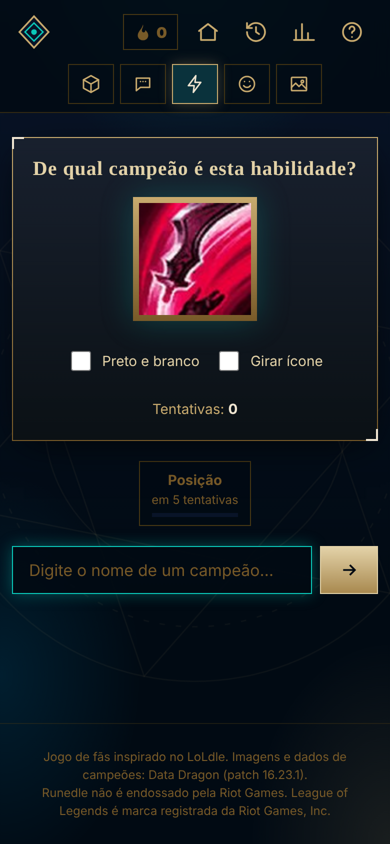
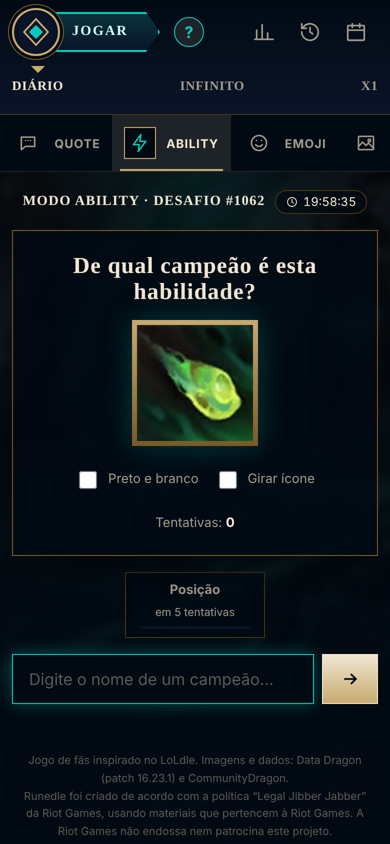
docs: README, changelog e capturas da v1.2.0
Claude-Session: https://claude.ai/code/session_017CqY1AusgkqLbdYCRY5f3o

diff --git a/README.md b/README.md
@@ -5,13 +5,13 @@
 **Descubra o campeão de League of Legends do dia.**
 Um jogo diário de adivinhação inspirado no LoLdle, feito com HTML, CSS e JavaScript puro.
 
-![Versão](https://img.shields.io/badge/vers%C3%A3o-1.1.0-c8aa6e)
+![Versão](https://img.shields.io/badge/vers%C3%A3o-1.2.0-c8aa6e)
 ![HTML5](https://img.shields.io/badge/HTML5-E34F26?logo=html5&logoColor=white)
 ![CSS3](https://img.shields.io/badge/CSS3-1572B6?logo=css3&logoColor=white)
 ![JavaScript](https://img.shields.io/badge/JavaScript-F7DF1E?logo=javascript&logoColor=black)
 ![Licença](https://img.shields.io/badge/licen%C3%A7a-MIT-0ac8b9)
 
-<img src="docs/screenshots/classic.jpg" alt="Modo Classic" width="720">
+<img src="docs/screenshots/classic.jpg" alt="Modo Classic" width="760">
 
 </div>
 
@@ -35,6 +35,7 @@ O projeto não tem dependências nem etapa de build: basta abrir o `index.html`.
 
 ## Funcionalidades
 
+- ⚔ **X1 ao vivo**: salas com código para dois jogadores, o mesmo campeão ao mesmo tempo, progresso do adversário em tempo real e palpites conferidos no servidor (Supabase).
 - ♾ **Modo infinito**: rodadas aleatórias sem limite, em um modo escolhido ou sorteado, com sequência e recorde próprios.
 - 📅 **Calendário**: jogue o desafio de qualquer dia passado (não conta para a sequência diária).
 - 🔥 **Sequência diária**: dias seguidos em que você venceu pelo menos um desafio, com recorde e os últimos 7 dias.
@@ -43,13 +44,19 @@ O projeto não tem dependências nem etapa de build: basta abrir o `index.html`.
 - 🔎 **Autocompletar** com ícones, navegação pelo teclado e bloqueio de palpites repetidos.
 - 💡 **Dicas** liberadas conforme você erra e opção de **desistir**.
 - 📤 **Compartilhar** o resultado em emojis, como no Wordle.
+- 🖥 **Interface no estilo do cliente do LoL**: o jogo abre direto no Classic, com menu de modos, perfil, sequência e transições suaves.
 - 📱 **Responsivo**, com animações que respeitam `prefers-reduced-motion`.
 - ✈ **Funciona offline**: ícones, habilidades e splash padrão ficam no repositório. Com internet, o modo Splash busca as skins no Data Dragon.
 
 <div align="center">
-  <img src="docs/screenshots/home-mobile.png" alt="Tela inicial no celular" width="260">
+  <img src="docs/screenshots/emoji-mobile.png" alt="Modo Emoji no celular" width="260">
   &nbsp;&nbsp;
   <img src="docs/screenshots/ability-mobile.png" alt="Modo Ability no celular" width="260">
+</div>
+
+<div align="center">
+  <img src="docs/screenshots/x1.jpg" alt="X1 ao vivo" width="760">
+  <p><sub>X1 ao vivo: progresso do adversário em tempo real.</sub></p>
 </div>
 
 ## Como rodar
@@ -81,7 +88,11 @@ RUNEDLE/
 ├── js/
 │   ├── data.js         # Atributos dos campeões, emojis, falas e títulos
 │   ├── icons.js        # Ícones dos campeões (embutidos em base64)
-│   └── app.js          # Lógica do jogo
+│   ├── config.js       # URL e chave pública do Supabase (X1)
+│   ├── app.js          # Lógica do jogo
+│   └── x1.js           # X1 ao vivo (cliente)
+├── supabase/           # Banco e função do servidor do X1 (veja supabase/README.md)
+├── tools/              # Scripts de manutenção
 ├── spells/             # Habilidades de cada campeão (carregadas sob demanda)
 ├── splash/             # Splash arts (carregadas sob demanda)
 └── docs/screenshots/   # Imagens deste README
@@ -98,8 +109,13 @@ RUNEDLE/
 | Modos | Configuração de cada modo: sorteio, pista, dicas, bônus e texto de compartilhamento. |
 | Renderização | Telas, busca com autocompletar, modais e animação de vitória. |
 
+## X1 ao vivo
+
+O X1 precisa de um projeto no Supabase. O passo a passo está em [`supabase/README.md`](supabase/README.md). Sem configuração, o resto do jogo funciona normalmente e a aba X1 avisa que o modo não está disponível.
+
 ## Dados
 
+- **Ícones de habilidade** vêm do [CommunityDragon](https://communitydragon.org) (arquivos atuais do cliente), com os ícones do Data Dragon salvos no projeto como reserva.
 - **Imagens, nomes e títulos** vêm do [Data Dragon](https://developer.riotgames.com/docs/lol#data-dragon) da Riot Games, patch 16.23.1. As skins do modo Splash são carregadas do Data Dragon quando há internet.
 - **Gênero, posições, espécie, recurso, alcance, região e ano** não existem no Data Dragon e foram catalogados manualmente em `js/data.js`.
   Correções são bem-vindas: cada campeão é uma linha.

diff --git a/CHANGELOG.md b/CHANGELOG.md
@@ -5,6 +5,24 @@ Todas as mudanças relevantes deste projeto são documentadas aqui.
 O formato segue o [Keep a Changelog](https://keepachangelog.com/pt-BR/1.1.0/)
 e o projeto usa [Versionamento Semântico](https://semver.org/lang/pt-BR/).
 
+## [1.2.0] - 2026-11-27
+
+### Adicionado
+- **X1 ao vivo**: salas com código e link de convite, os dois jogadores recebem o mesmo campeão
+  ao mesmo tempo, progresso do adversário em tempo real, placar e revanche. Os palpites são
+  conferidos numa função do servidor (Supabase Edge Function), então a resposta nunca chega ao navegador.
+- **Nova interface no estilo do cliente do LoL**: botão JOGAR, abas Diário / Infinito / X1,
+  carteira com sequência e vitórias, menu lateral com os modos do dia, coluna com perfil,
+  sequência da semana, desafio de hoje e X1.
+- Fundo do jogo com arte desfocada que nunca é a resposta de nenhum modo do dia.
+- Transições: entrada em cascata ao trocar de tela, troca suave do fundo e grupos recolhíveis.
+
+### Alterado
+- O site abre direto no **Classic**, sem tela de menu.
+- **Ícones de habilidade atualizados**: o modo Ability busca o ícone atual do cliente no
+  CommunityDragon, com o ícone salvo no projeto como reserva.
+- Aviso legal no rodapé com o texto da política de projetos de fãs da Riot.
+
 ## [1.1.0] - 2026-11-27
 
 ### Adicionado
@@ -41,5 +59,6 @@ e o projeto usa [Versionamento Semântico](https://semver.org/lang/pt-BR/).
 - Imagens locais de 172 campeões (patch 16.23.1): ícones, habilidades e splash arts. O jogo funciona offline.
 - Layout responsivo para celular e computador, com tema escuro dourado e azul e animações.
 
+[1.2.0]: https://github.com/EricHafemann/RUNEDLE/compare/v1.1.0...v1.2.0
 [1.1.0]: https://github.com/EricHafemann/RUNEDLE/compare/v1.0.0...v1.1.0
 [1.0.0]: https://github.com/EricHafemann/RUNEDLE/releases/tag/v1.0.0
